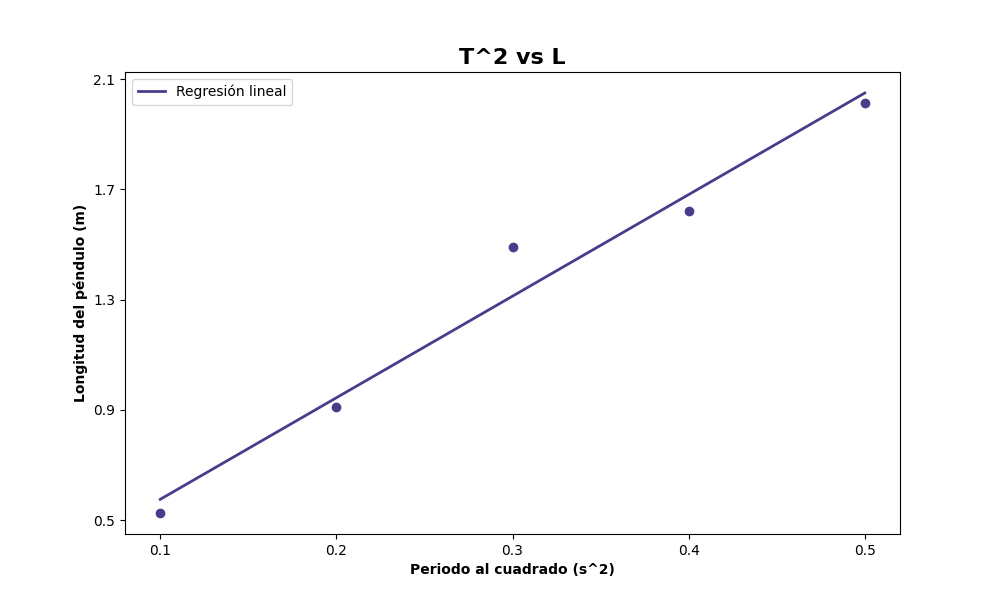
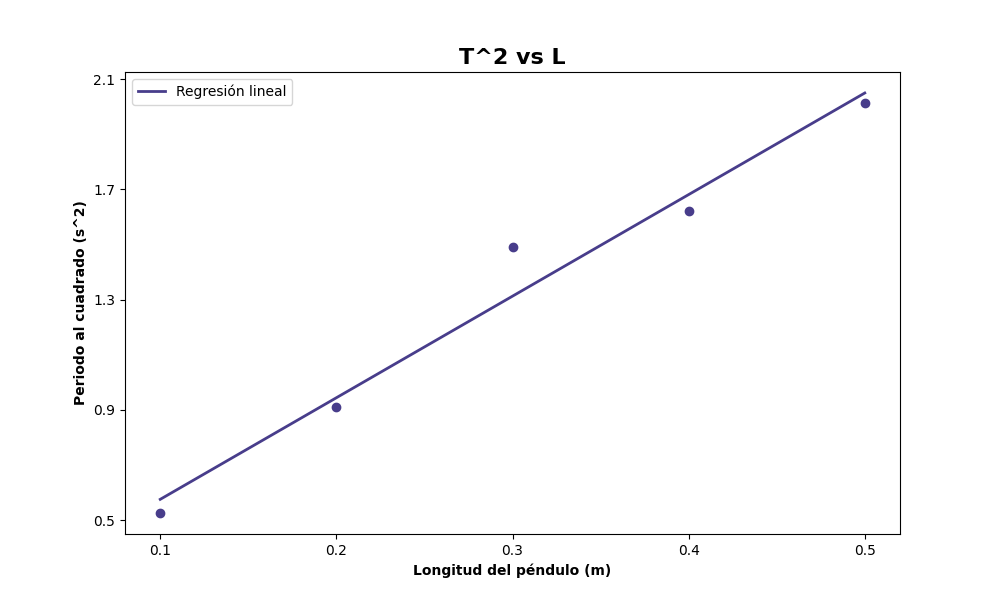
actualizando la grafica 3

Changed region(s): [[0.062, 0.33, 0.093, 0.69], [0.403, 0.93, 0.62, 0.96]]

diff --git a/grafica_3.py b/grafica_3.py
@@ -29,8 +29,8 @@ plt.yticks(np.arange(0.5, 2.5, 0.4))
 
 
 
-plt.xlabel('Periodo al cuadrado (s^2)', fontweight='bold')
-plt.ylabel('Longitud del péndulo (m)', fontweight='bold')
+plt.xlabel('Longitud del péndulo (m)', fontweight='bold')
+plt.ylabel('Periodo al cuadrado (s^2)', fontweight='bold')
 plt.title('T^2 vs L', fontweight='bold', fontsize=16)
 plt.legend()
 
